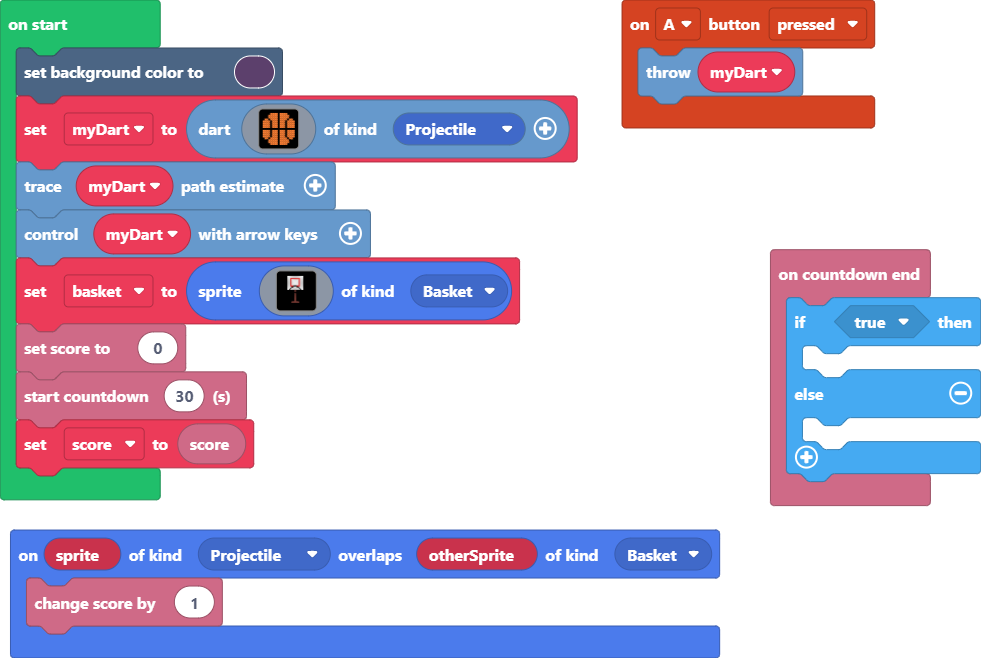
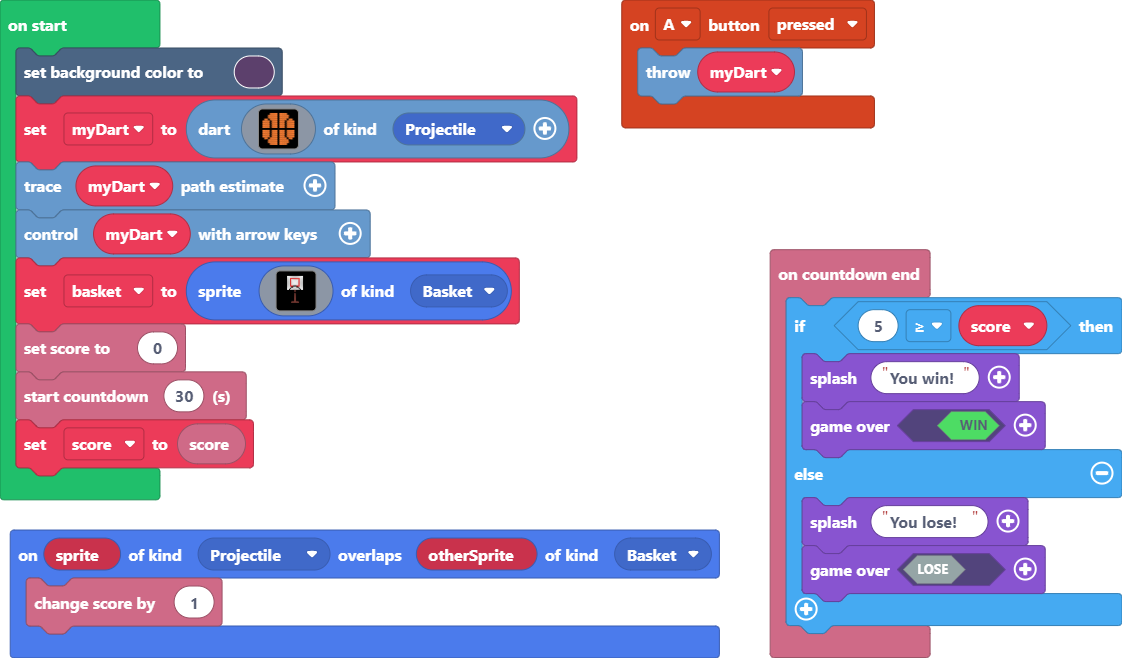
Update main.blocks, main.ts

diff --git a/main.ts b/main.ts
@@ -5,15 +5,18 @@ controller.A.onEvent(ControllerButtonEvent.Pressed, function () {
     myDart.throwDart()
 })
 info.onCountdownEnd(function () {
-    if (true) {
-    	
+    if (5 >= score) {
+        game.splash("You win!")
+        game.over(true)
     } else {
-    	
+        game.splash("You lose!")
+        game.over(false)
     }
 })
 sprites.onOverlap(SpriteKind.Projectile, SpriteKind.Basket, function (sprite, otherSprite) {
     info.changeScoreBy(1)
 })
+let score = 0
 let myDart: Dart = null
 scene.setBackgroundColor(12)
 myDart = darts.create(img`
@@ -71,4 +74,4 @@ let basket = sprites.create(img`
     `, SpriteKind.Basket)
 info.setScore(0)
 info.startCountdown(30)
-let score = info.score()
+score = info.score()
